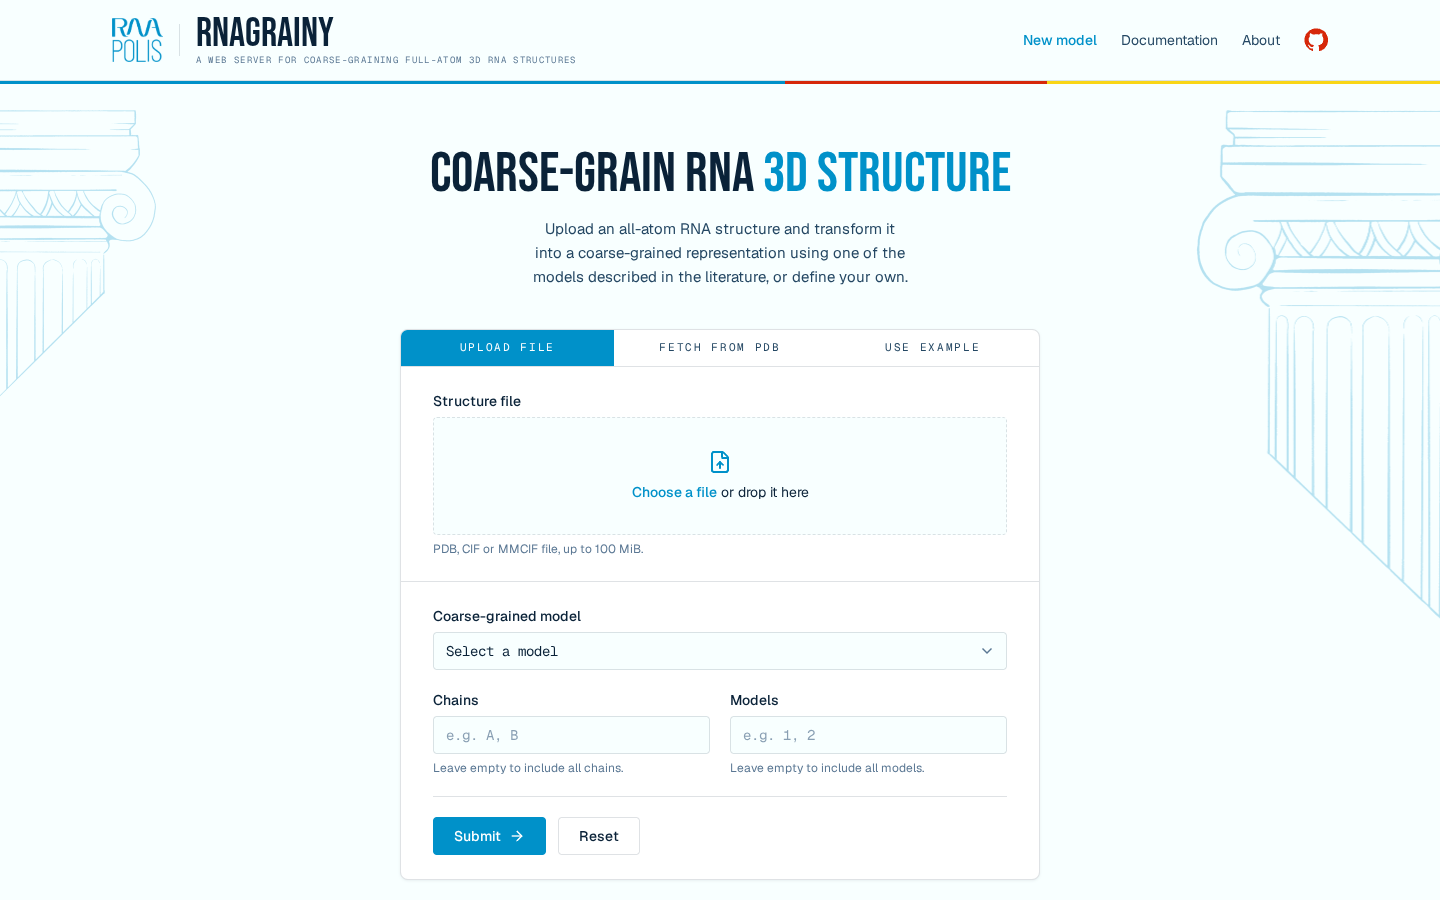
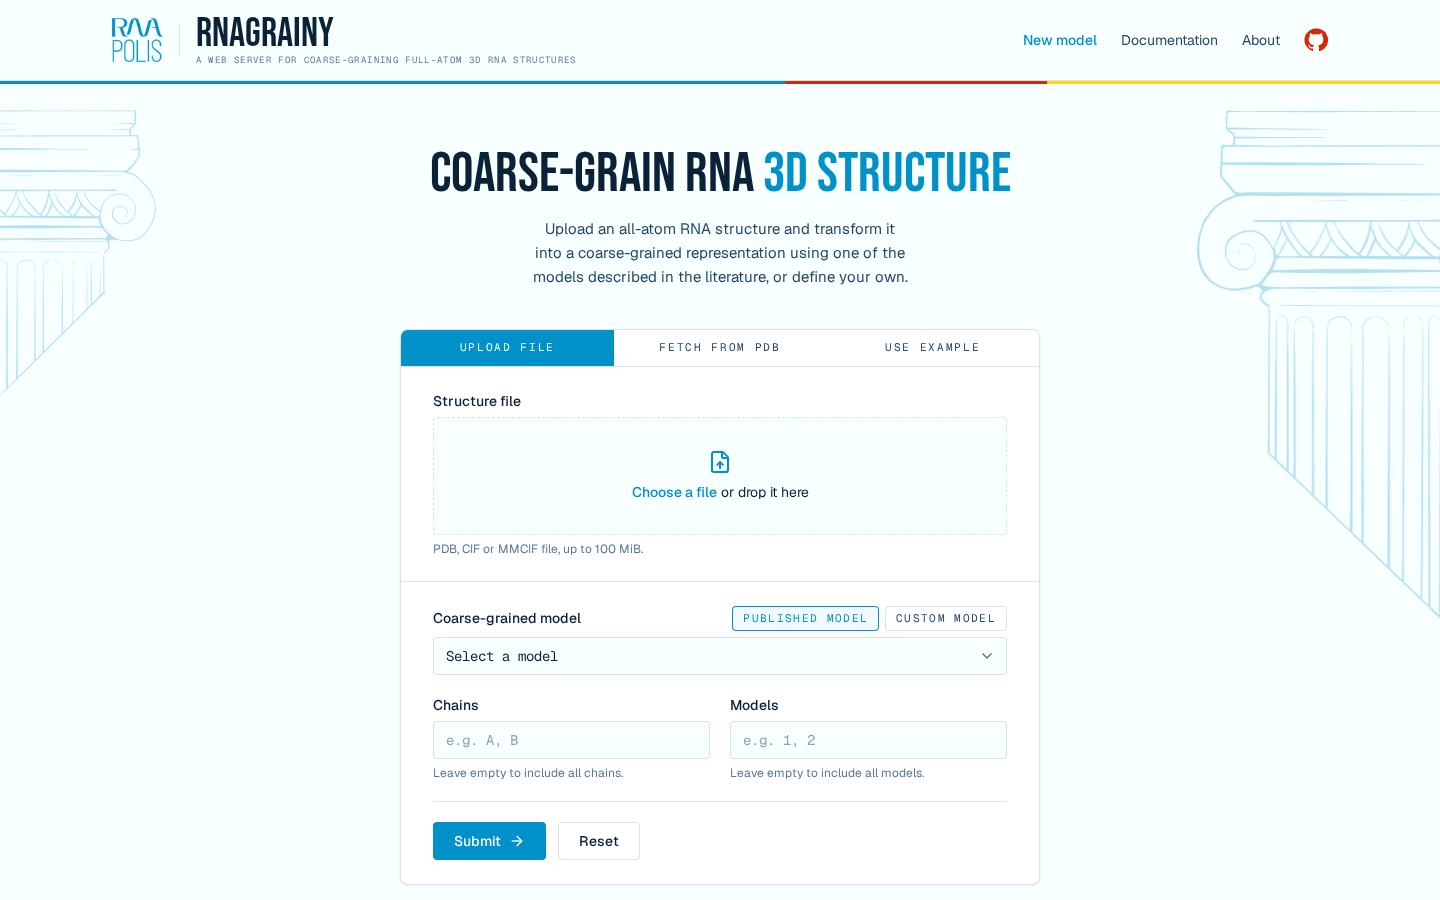
Choose between a published and a custom model with a switch
Move the custom model out of the model list into a Published model /
Custom model switch beside the field label. The list now holds only the
published models, and the custom model box shows in its place.

diff --git a/frontend/src/features/upload/UploadForm.tsx b/frontend/src/features/upload/UploadForm.tsx
@@ -1,6 +1,6 @@
 import { useMutation, useQuery } from "@tanstack/react-query";
 import { ArrowRight, LoaderCircle } from "lucide-react";
-import { type ReactNode, type SubmitEvent, useState } from "react";
+import { type ReactNode, type SubmitEvent, useId, useState } from "react";
 import { useNavigate } from "react-router";
 
 import { getErrorMessage } from "@/api/client";
@@ -9,9 +9,11 @@ import { appConfigQueryOptions, modelsQueryOptions } from "@/api/queries";
 import type { AppConfig, ModelDocumentation } from "@/api/types";
 import { Alert } from "@/components/ui/Alert";
 import { Button } from "@/components/ui/Button";
+import { labelClasses } from "@/components/ui/Field";
 import { SelectField } from "@/components/ui/SelectField";
 import { type TabItem, Tabs } from "@/components/ui/Tabs";
 import { TextField } from "@/components/ui/TextField";
+import { ToggleButton } from "@/components/ui/ToggleButton";
 import type { ResultLocationState } from "@/features/results/resultState";
 import { preloadStructureViewer } from "@/features/results/viewer/preload";
 import { formatBeadsPerResidue, formatBytes, formatList } from "@/lib/format";
@@ -89,6 +91,7 @@ interface UploadFormContentProps {
 
 function UploadFormContent({ config, models }: UploadFormContentProps) {
   const navigate = useNavigate();
+  const modelLabelId = useId();
   const [values, setValues] = useState(INITIAL_VALUES);
   const [submitAttempted, setSubmitAttempted] = useState(false);
   const mutation = useMutation({ mutationFn: coarseGrain });
@@ -96,6 +99,7 @@ function UploadFormContent({ config, models }: UploadFormContentProps) {
   const errors = submitAttempted ? validateUploadForm(values, config) : {};
   const sortedModels = models.toSorted((a, b) => a.name.localeCompare(b.name));
   const selectedModel = models.find((model) => model.id === values.modelId);
+  const isCustomModel = values.modelId === CUSTOM_MODEL_ID;
   const formats = config.supported_file_formats;
 
   const update = (patch: Partial<UploadFormValues>) => {
@@ -187,43 +191,69 @@ function UploadFormContent({ config, models }: UploadFormContentProps) {
           </Tabs>
 
           <div className="flex flex-col gap-5 border-t border-line-soft p-6 lg:px-8">
-            <SelectField
-              label="Coarse-grained model"
-              value={values.modelId}
-              error={errors.model}
-              hint={
-                selectedModel
-                  ? formatBeadsPerResidue(selectedModel.beads_per_residue)
-                  : undefined
-              }
-              onChange={(event) => {
-                update({ modelId: event.target.value });
-              }}
-            >
-              <option value="" disabled>
-                Select a model
-              </option>
-              <optgroup label="Published models">
-                {sortedModels.map((model) => (
-                  <option key={model.id} value={model.id}>
-                    {model.name}
-                  </option>
-                ))}
-              </optgroup>
-              <optgroup label="Your own">
-                <option value={CUSTOM_MODEL_ID}>Custom model (JSON)</option>
-              </optgroup>
-            </SelectField>
+            <div className="flex flex-col gap-1.5">
+              <div className="flex flex-wrap items-center justify-between gap-2">
+                <span id={modelLabelId} className={labelClasses}>
+                  Coarse-grained model
+                </span>
+                <div role="group" aria-label="Model type" className="flex gap-1.5">
+                  <ToggleButton
+                    pressed={!isCustomModel}
+                    onClick={() => {
+                      if (isCustomModel) update({ modelId: "" });
+                    }}
+                  >
+                    Published model
+                  </ToggleButton>
+                  <ToggleButton
+                    pressed={isCustomModel}
+                    onClick={() => {
+                      update({ modelId: CUSTOM_MODEL_ID });
+                    }}
+                  >
+                    Custom model
+                  </ToggleButton>
+                </div>
+              </div>
 
-            {values.modelId === CUSTOM_MODEL_ID && (
-              <CustomModelInput
-                config={config}
-                value={values.customModel}
-                onChange={(customModel) => {
-                  update({ customModel });
-                }}
-              />
-            )}
+              {isCustomModel ? (
+                <>
+                  <CustomModelInput
+                    config={config}
+                    value={values.customModel}
+                    onChange={(customModel) => {
+                      update({ customModel });
+                    }}
+                  />
+                  {errors.model && (
+                    <p className="text-xs text-red-deep">{errors.model}</p>
+                  )}
+                </>
+              ) : (
+                <SelectField
+                  aria-labelledby={modelLabelId}
+                  value={values.modelId}
+                  error={errors.model}
+                  hint={
+                    selectedModel
+                      ? formatBeadsPerResidue(selectedModel.beads_per_residue)
+                      : undefined
+                  }
+                  onChange={(event) => {
+                    update({ modelId: event.target.value });
+                  }}
+                >
+                  <option value="" disabled>
+                    Select a model
+                  </option>
+                  {sortedModels.map((model) => (
+                    <option key={model.id} value={model.id}>
+                      {model.name}
+                    </option>
+                  ))}
+                </SelectField>
+              )}
+            </div>
 
             <div className="grid gap-5 lg:grid-cols-2">
               <TextField

diff --git a/frontend/src/features/upload/UploadForm.test.tsx b/frontend/src/features/upload/UploadForm.test.tsx
@@ -54,7 +54,7 @@ async function fillSource(user: User, kind: SourceKind) {
 }
 
 async function loadCustomModel(user: User, definition: string) {
-  await user.selectOptions(screen.getByLabelText("Coarse-grained model"), "custom");
+  await user.click(screen.getByRole("button", { name: "Custom model" }));
   await user.upload(
     screen.getByLabelText("Custom model JSON file"),
     new File([definition], "model.json", { type: "application/json" }),
@@ -69,7 +69,7 @@ async function renderForm() {
 }
 
 describe("UploadForm", () => {
-  it("lists models alphabetically followed by the custom option", async () => {
+  it("lists the published models alphabetically", async () => {
     mockFetch({
       ...catalogRoutes,
       "GET /api/models": () => jsonResponse(models.toReversed()),
@@ -79,12 +79,28 @@ describe("UploadForm", () => {
     const options = within(screen.getByLabelText("Coarse-grained model"))
       .getAllByRole("option")
       .map((option) => option.textContent);
-    expect(options).toEqual([
-      "Select a model",
-      "NAST",
-      "SimRNA",
-      "Custom model (JSON)",
-    ]);
+    expect(options).toEqual(["Select a model", "NAST", "SimRNA"]);
+  });
+
+  it("switches between a published and a custom model", async () => {
+    mockFetch(catalogRoutes);
+    const { user } = await renderForm();
+
+    await user.click(screen.getByRole("button", { name: "Custom model" }));
+
+    expect(screen.getByRole("button", { name: "Custom model" })).toHaveAttribute(
+      "aria-pressed",
+      "true",
+    );
+    expect(screen.queryByRole("combobox")).not.toBeInTheDocument();
+    expect(screen.getByRole("button", { name: "Open creator" })).toBeInTheDocument();
+
+    await user.click(screen.getByRole("button", { name: "Published model" }));
+
+    expect(screen.getByLabelText("Coarse-grained model")).toHaveValue("");
+    expect(
+      screen.queryByRole("button", { name: "Open creator" }),
+    ).not.toBeInTheDocument();
   });
 
   it("shows validation errors instead of submitting an incomplete form", async () => {
@@ -158,7 +174,7 @@ describe("UploadForm", () => {
 
     await user.click(screen.getByRole("tab", { name: "Fetch from PDB" }));
     await user.type(screen.getByRole("textbox", { name: "PDB ID" }), "1ehz");
-    await user.selectOptions(screen.getByLabelText("Coarse-grained model"), "custom");
+    await user.click(screen.getByRole("button", { name: "Custom model" }));
     await user.upload(
       screen.getByLabelText("Custom model JSON file"),
       new File([definition], "model.json", { type: "application/json" }),
@@ -201,6 +217,7 @@ describe("UploadForm", () => {
 
     await fillSource(user, "preset");
     await loadCustomModel(user, JSON.stringify({ model_name: "Two-bead model" }));
+    await user.click(screen.getByRole("button", { name: "Published model" }));
     await user.selectOptions(screen.getByLabelText("Coarse-grained model"), "SimModel");
     await user.click(screen.getByRole("button", { name: "Submit" }));
 
@@ -257,7 +274,7 @@ describe("UploadForm", () => {
     });
     const { user } = await renderForm();
 
-    await user.selectOptions(screen.getByLabelText("Coarse-grained model"), "custom");
+    await user.click(screen.getByRole("button", { name: "Custom model" }));
     await user.upload(
       screen.getByLabelText("Custom model JSON file"),
       new File(['{"model_name": "Broken"}'], "model.json", {
@@ -290,7 +307,7 @@ describe("UploadForm", () => {
       connectivity: { intra_residue: [["A1", "B9"]], inter_residue: [] },
     };
 
-    await user.selectOptions(screen.getByLabelText("Coarse-grained model"), "custom");
+    await user.click(screen.getByRole("button", { name: "Custom model" }));
     await user.upload(
       screen.getByLabelText("Custom model JSON file"),
       new File([JSON.stringify(definition)], "broken.json"),

diff --git a/frontend/src/features/creator/ModelCreator.test.tsx b/frontend/src/features/creator/ModelCreator.test.tsx
@@ -19,10 +19,7 @@ function mockApi() {
 async function openCreator() {
   const app = renderApp("/");
   const { user } = app;
-  await user.selectOptions(
-    await screen.findByLabelText("Coarse-grained model"),
-    "custom",
-  );
+  await user.click(await screen.findByRole("button", { name: "Custom model" }));
   await user.click(screen.getByRole("button", { name: "Open creator" }));
   return { ...app, dialog: screen.getByRole("dialog", { name: "Model creator" }) };
 }
@@ -85,10 +82,7 @@ describe("ModelCreator", () => {
   it("edits a model loaded from JSON and discards changes on cancel", async () => {
     const app = renderApp("/");
     const { user } = app;
-    await user.selectOptions(
-      await screen.findByLabelText("Coarse-grained model"),
-      "custom",
-    );
+    await user.click(await screen.findByRole("button", { name: "Custom model" }));
     await user.upload(
       screen.getByLabelText("Custom model JSON file"),
       new File(
@@ -171,7 +165,7 @@ describe("ModelCreator", () => {
     const { user } = renderApp("/");
     await user.click(await screen.findByRole("tab", { name: "Use example" }));
     await user.click(screen.getByRole("radio", { name: "1EHZ" }));
-    await user.selectOptions(screen.getByLabelText("Coarse-grained model"), "custom");
+    await user.click(screen.getByRole("button", { name: "Custom model" }));
     await user.click(screen.getByRole("button", { name: "Open creator" }));
     await user.click(screen.getByRole("button", { name: "Use model" }));
     await user.click(screen.getByRole("button", { name: "Edit" }));
@@ -207,10 +201,7 @@ describe("ModelCreator", () => {
 
   it("explains why a loaded model cannot be edited", async () => {
     const { user } = renderApp("/");
-    await user.selectOptions(
-      await screen.findByLabelText("Coarse-grained model"),
-      "custom",
-    );
+    await user.click(await screen.findByRole("button", { name: "Custom model" }));
     const definition = toDefinition(createDefaultDraft());
     definition.default_mapping.residues.push("PSU");
     await user.upload(

diff --git a/frontend/src/components/ui/Field.tsx b/frontend/src/components/ui/Field.tsx
@@ -8,7 +8,7 @@ export interface FieldIds {
 
 interface FieldProps {
   id: string;
-  label: ReactNode;
+  label?: ReactNode;
   hint?: ReactNode;
   error?: string | undefined;
   children: (ids: FieldIds) => ReactNode;
@@ -26,9 +26,11 @@ export function Field({ id, label, hint, error, children }: FieldProps) {
 
   return (
     <div className="flex flex-col gap-1.5">
-      <label htmlFor={id} className={labelClasses}>
-        {label}
-      </label>
+      {label && (
+        <label htmlFor={id} className={labelClasses}>
+          {label}
+        </label>
+      )}
       {children({ inputId: id, describedBy, invalid: Boolean(error) })}
       {error && (
         <p id={errorId} className="text-xs text-red-deep">

diff --git a/frontend/src/components/ui/SelectField.tsx b/frontend/src/components/ui/SelectField.tsx
@@ -6,7 +6,7 @@ import { cn } from "@/lib/cn";
 import { Field, inputClasses } from "./Field";
 
 interface SelectFieldProps extends Omit<SelectHTMLAttributes<HTMLSelectElement>, "id"> {
-  label: ReactNode;
+  label?: ReactNode;
   hint?: ReactNode;
   error?: string | undefined;
 }

diff --git a/tests/e2e/test_html_injection.py b/tests/e2e/test_html_injection.py
@@ -16,7 +16,7 @@ def test_custom_model_html_is_shown_as_text(
     page.get_by_label(re.compile("Choose a file")).set_input_files(
         test_data_dir / "4GXY.cif"
     )
-    page.get_by_label("Coarse-grained model").select_option("custom")
+    page.get_by_role("button", name="Custom model").click()
     page.get_by_label("Custom model JSON file").set_input_files(custom_model_path)
     expect(page.get_by_text("Custom model loaded")).to_be_visible()
 
